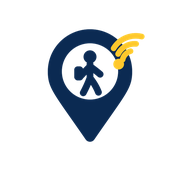
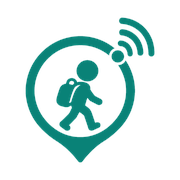
15

Changed region(s): [[0.1389, 0.0833, 0.8611, 0.9167]]

diff --git a/public/home.html b/public/home.html
@@ -46,17 +46,14 @@
   button { font-family: inherit; }
 
   .nav { position: sticky; top: 0; z-index: 50; display: flex; align-items: center; justify-content: space-between; padding: 16px 24px; background: rgba(255,255,255,0.9); backdrop-filter: blur(10px); border-bottom: 1px solid var(--line); }
-  .nav-logo { font-weight: 800; font-size: 19px; color: var(--ink); display: flex; align-items: center; gap: 9px; text-decoration: none; }
-  .nav-logo .mark { width: 28px; height: 28px; flex: none; }
-  .nav-logo .mark #dot, .nav-logo .mark #arc1, .nav-logo .mark #arc2, .nav-logo .mark #arc3 {
-    animation: onetagPulse 1.8s ease-in-out infinite;
+  .nav-logo { font-weight: 800; font-size: 19px; color: var(--ink); display: flex; align-items: center; gap: 11px; text-decoration: none; }
+  .nav-logo .mark { width: 42px; height: 42px; flex: none; animation: onetagColorCycle 6s linear infinite; }
+  @keyframes onetagColorCycle {
+    0%   { filter: hue-rotate(0deg); }
+    100% { filter: hue-rotate(360deg); }
   }
-  .nav-logo .mark #arc1 { animation-delay: 0.15s; }
-  .nav-logo .mark #arc2 { animation-delay: 0.30s; }
-  .nav-logo .mark #arc3 { animation-delay: 0.45s; }
-  @keyframes onetagPulse { 0% { opacity: 0.35; } 50% { opacity: 1; } 100% { opacity: 0.35; } }
   @media (prefers-reduced-motion: reduce) {
-    .nav-logo .mark #dot, .nav-logo .mark #arc1, .nav-logo .mark #arc2, .nav-logo .mark #arc3 { animation: none; opacity: 1; }
+    .nav-logo .mark { animation: none; }
   }
   .nav-right { display: flex; align-items: center; gap: 18px; }
   .nav-links { display: flex; gap: 22px; font-size: 14.5px; font-weight: 500; color: var(--muted); }
@@ -384,21 +381,7 @@
 
 <nav class="nav">
   <a class="nav-logo" href="/home.html" aria-label="OneTag home">
-    <svg class="mark" viewBox="0 0 512 512" aria-hidden="true">
-      <defs><clipPath id="navLogoClip"><circle cx="256" cy="190" r="100"/></clipPath></defs>
-      <path fill="#0B2A52" fill-rule="evenodd" d="M240.59,431.93 C127.07,267.37 106,250.48 106,190 C106,107.16 173.16,40 256,40 C338.84,40 406,107.16 406,190 C406,250.48 384.93,267.37 271.41,431.93 C264.0,442.69 248.03,442.69 240.59,431.93 Z M256,90 A100,100 0 1,0 256,290 A100,100 0 1,0 256,90 Z"/>
-      <g clip-path="url(#navLogoClip)">
-        <rect x="200" y="172" rx="12" ry="12" width="32" height="50" fill="#0B2A52"/>
-        <path fill="none" stroke="#0B2A52" stroke-width="24" stroke-linecap="round" stroke-linejoin="round" d="M256,163 L256,213 M256,213 Q246,240 232,266 M256,213 Q276,238 286,264 M256,172 Q238,190 224,205 M256,172 Q278,188 292,200"/>
-        <circle cx="256" cy="138" r="23" fill="#0B2A52"/>
-      </g>
-      <g fill="none" stroke="#F7A81B" stroke-width="20" stroke-linecap="round">
-        <path id="arc1" d="M 372 148 A 40 40 0 0 1 400 118"/>
-        <path id="arc2" d="M 356 128 A 66 66 0 0 1 420 92"/>
-        <path id="arc3" d="M 340 108 A 92 92 0 0 1 440 66"/>
-      </g>
-      <circle id="dot" cx="358" cy="164" r="19" fill="#F7A81B"/>
-    </svg>
+    <img class="mark" src="/assets/logo-mark.png" alt="">
     OneTag
   </a>
   <div class="nav-right">

diff --git a/LOGO-DEPLOY-NOTES.md b/LOGO-DEPLOY-NOTES.md
@@ -1,31 +1,41 @@
-# New logo — what changed and how to push it
+# Updated logo — bigger, single-color, colors cycling
 
-## What's in this folder
+This replaces the previous logo push (the navy+gold pin). If you already
+pushed that one, this new push overwrites it — same files, new content.
 
-Only the files that changed, in the same `public/` layout as your repo:
+## What changed
 
-- `public/home.html` — the header logo is now the new pin-mark icon (animated: the gold signal pulses continuously), plus a favicon tag was added
-- `public/assets/logo-mark.svg`, `favicon-32.png`, `favicon-16.png`, `apple-touch-icon.png` — the new icon files
-- `public/admin-content.html`, `admin-login.html`, `admin-panel.html`, `admin-setup.html`, `dashboard.html`, `gate-listener.html`, `index.html`, `parent-portal.html`, `t.html` — each got the same 3-line favicon addition only, nothing else touched
+- **The exact image you sent** is now the site logo — I didn't redraw
+  anything. Your file had a printed-in checkerboard pattern instead of
+  real transparency (common when an AI image tool's preview is
+  downloaded directly), so I rebuilt it as a proper transparent PNG from
+  your same artwork — same shape, same teal color, just a real
+  see-through background instead of a checkerboard.
+- **Bigger**: the header logo went from 28px to 42px.
+- **Colors change continuously, the whole mark**: not just the signal
+  arcs this time — the entire icon smoothly cycles through the color
+  wheel (teal → blue → purple → red → orange → green → back to teal) on
+  a 6-second loop, forever, for as long as someone's on the page.
+- Favicon (browser tab icon) stays a still frame in the original teal —
+  same reason as before, browsers don't animate tab icons.
 
-Nothing in `server.js`, `db.js`, or any other backend file changed — this is front-end only, safe to push on its own.
+## Files in this folder
 
-## Step by step (GitHub Desktop, same as your last few pushes)
+- `public/home.html` — logo swapped to the new image, sized up, color-cycle animation added
+- `public/assets/logo-mark.png` — your logo, transparency fixed
+- `public/assets/favicon-32.png`, `favicon-16.png`, `apple-touch-icon.png` — regenerated from the same image
+- The other 9 HTML files are unchanged from the last push (still just carrying the favicon tag) — included so the folder is complete to copy over
 
-1. Open your local `onetag` folder (the one GitHub Desktop is already tracking).
-2. Copy every file from this delivery folder into that local folder, **matching the same path** — e.g. this `public/home.html` overwrites your local `public/home.html`. When your file manager asks to replace the existing files, say yes.
-3. Switch to GitHub Desktop. It'll list the changed/added files on the left (the 10 HTML files + the 4 new files in `public/assets/`).
-4. Bottom-left, write a commit message, e.g. "Add new pin logo with animated signal + site favicon".
-5. Click **Commit to main**.
-6. Click **Push origin** (top bar).
-7. Render redeploys automatically a minute or two after the push — refresh **onetagmn.com** after that (a hard refresh — Ctrl/Cmd+Shift+R — helps if your browser cached the old favicon).
+## Step by step (same as before)
 
-## What to expect after it's live
+1. Open your local `onetag` folder (the one GitHub Desktop tracks).
+2. Copy everything from this folder into it, same paths, overwrite when asked.
+3. GitHub Desktop → write a commit message, e.g. "Update logo: single-color, larger, continuous color-cycle" → **Commit to main**.
+4. **Push origin**.
+5. Render redeploys in a minute or two — then hard-refresh **onetagmn.com** (Ctrl/Cmd+Shift+R) so the browser drops the cached favicon.
 
-- The browser tab icon (favicon) becomes the new pin mark, on every page.
-- The site header logo (top-left, next to "Home / How it works / ...") becomes the new pin mark with "OneTag" next to it, and the gold signal arcs pulse continuously — this only animates on `home.html` itself; the favicon stays a still image everywhere (browsers don't animate tab icons — see note below).
-- Nothing else on the site changes — no layout, no other page content, no backend behavior.
+## How the color-cycle works (for reference)
 
-## One real limitation, so it's not a surprise later
-
-Browsers throttle or refuse to animate favicons to save battery, so the tab icon will stay a static frame of the pin mark — only the in-page header logo pulses. This is normal and how essentially every real site handles it; no fix needed on your end.
+It's a CSS filter animation on the logo image — `hue-rotate()` sweeping
+0° to 360° over 6 seconds, on a loop. It's applied to your image file
+directly, so no vector recreation was needed to make this work.
